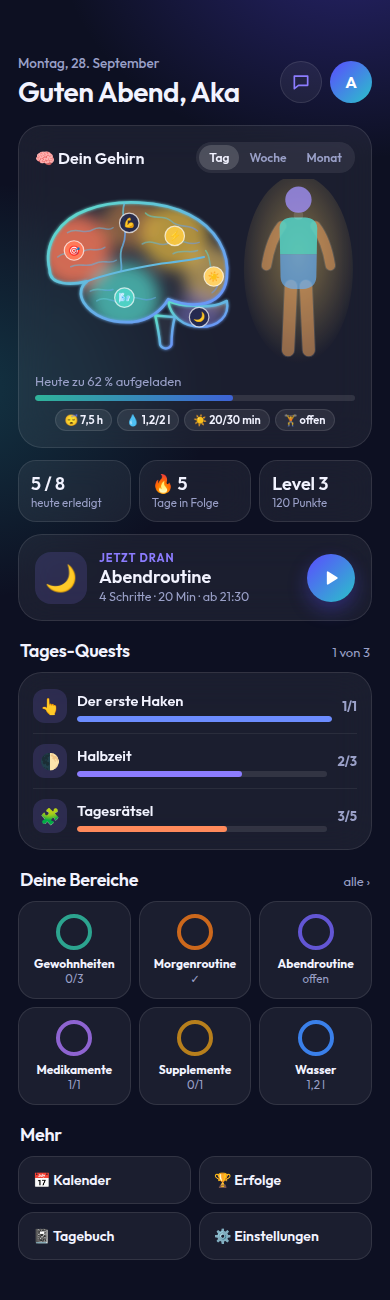
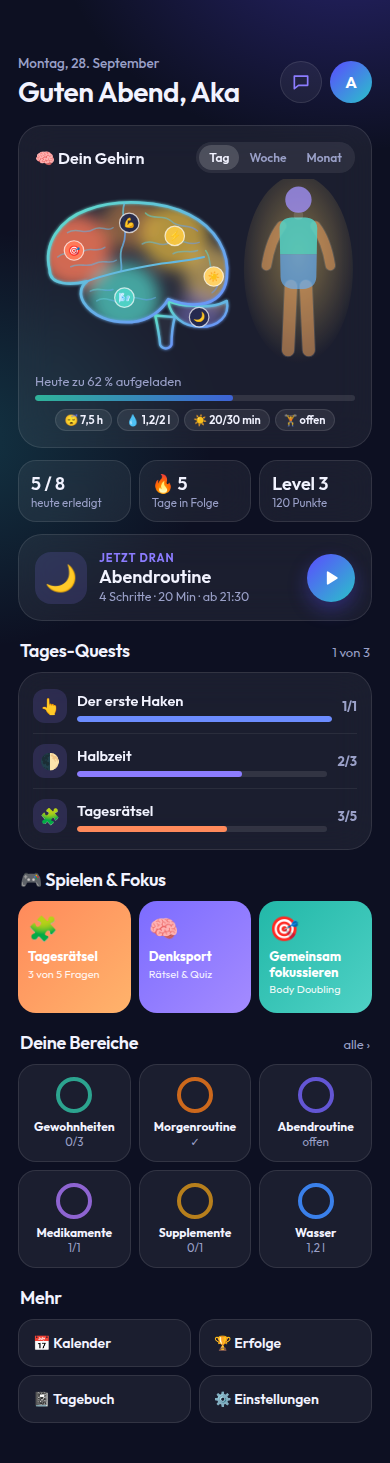
Design 2.0: Entwürfe mit Spielen & Fokus, Vergleichsbild mit/ohne Leiste
Claude-Session: https://claude.ai/code/session_01Vp2AUrhPBpd2NtdoK1rtDA

Changed region(s): [[0.0308, 0.0308, 0.9538, 0.9846], [0.5538, 0.8923, 0.8308, 0.9846], [0.5846, 0.4, 0.6154, 0.4308]]

diff --git a/docs/design-2.0/gen2.py b/docs/design-2.0/gen2.py
@@ -69,6 +69,7 @@ def seite(ph, leiste):
 .sek{{display:flex;justify-content:space-between;align-items:baseline;margin:18px 2px 10px}} h2{{font-size:18px;font-weight:{600 if d else 800};letter-spacing:-.3px}}
 .qs{{padding:6px 14px}} .q{{display:flex;align-items:center;gap:10px;padding:10px 0;border-bottom:1px solid {'rgba(255,255,255,.07)' if d else '#EEF1F6'}}} .q:last-child{{border:none}} .qe{{width:34px;height:34px;border-radius:12px;background:{P['soft']};display:grid;place-items:center}} .qt{{font-size:14.5px;font-weight:600}} .qz{{font-size:13px;font-weight:700;color:{P['muted']}}}
 .kg{{display:grid;grid-template-columns:repeat(3,1fr);gap:8px}} .k{{background:{P['karte']};border:{P['rand']};box-shadow:{P['schatten']};border-radius:18px;padding:12px 10px;text-align:center}} .kr{{width:36px;height:36px;border-radius:50%;border:4px solid;margin:0 auto 6px;opacity:.9}} .kt{{font-size:12px;font-weight:700}} .kv{{font-size:11.5px;color:{P['muted']}}}
+.spiele{{display:grid;grid-template-columns:repeat(3,1fr);gap:8px}} .sp{{border-radius:18px;padding:12px 10px;color:#fff;min-height:112px;display:flex;flex-direction:column;gap:2px}} .sp b{{font-size:13px;line-height:1.2}} .sp span{{font-size:11px;opacity:.9}} .spe{{font-size:24px;margin-bottom:4px}}
 .kg2{{display:grid;grid-template-columns:1fr 1fr;gap:8px}} .k2{{background:{P['karte']};border:{P['rand']};box-shadow:{P['schatten']};border-radius:16px;padding:14px;font-weight:600;font-size:14px}}
 .nav{{position:fixed;left:14px;right:14px;bottom:16px;height:66px;border-radius:24px;background:{'rgba(30,33,60,.9)' if d else 'rgba(255,255,255,.95)'};border:{P['rand']};box-shadow:{'none' if d else '0 10px 30px rgba(16,24,40,.12)'};display:flex;align-items:center;justify-content:space-around;backdrop-filter:blur(16px)}}
 .navi{{display:flex;flex-direction:column;align-items:center;gap:2px;color:{'#6F75A3' if d else '#98A2B3'};font-size:11px;font-weight:600}} .navi.an{{color:{'#fff' if d else P['acc']}}}
@@ -82,6 +83,7 @@ def seite(ph, leiste):
 <div class="stats"><div class="karte st"><div class="sv">5 / 8</div><div class="sl">heute erledigt</div></div><div class="karte st"><div class="sv">🔥 5</div><div class="sl">Tage in Folge</div></div><div class="karte st"><div class="sv">Level 3</div><div class="sl">120 Punkte</div></div></div>
 <div class="karte jetzt"><div class="je">{P['jetzt'][0]}</div><div><div class="jk">JETZT DRAN</div><div class="jt">{P['jetzt'][1]}</div><div class="js">{P['jetzt'][2]}</div></div><div class="go">{ic("play",20,2,"currentColor")}</div></div>
 <div class="sek"><h2>Tages-Quests</h2><span class="muted small">1 von 3</span></div><div class="karte qs">{qhtml}</div>
+<div class="sek"><h2>🎮 Spielen & Fokus</h2></div><div class="spiele"><div class="sp" style="background:linear-gradient(135deg,#FF8A5B,#FFB36B)"><div class="spe">🧩</div><b>Tagesrätsel</b><span>3 von 5 Fragen</span></div><div class="sp" style="background:linear-gradient(135deg,#7C6CFF,#A48BFF)"><div class="spe">🧠</div><b>Denksport</b><span>Rätsel & Quiz</span></div><div class="sp" style="background:linear-gradient(135deg,#22B8A8,#4FD1C5)"><div class="spe">🎯</div><b>Gemeinsam fokussieren</b><span>Body Doubling</span></div></div>
 {unten}
 </div>{bar}</body></html>'''
 
